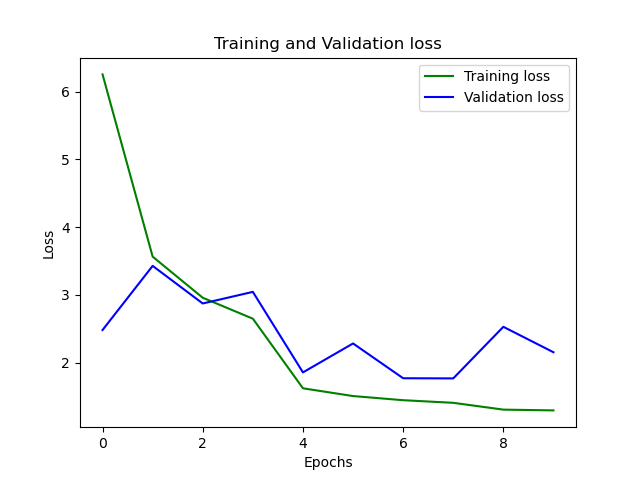
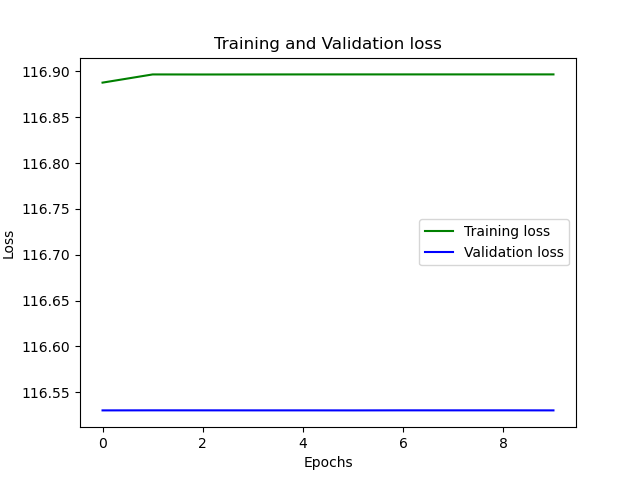
v42, further experiments with point removal

diff --git a/main_fpn.py b/main_fpn.py
@@ -157,6 +157,50 @@ class DDDDepthDiff(nn.Module):
 #     return float(correct)*100 / target.size(0) 
 
 
+class PixelWiseOutlierLoss(nn.Module):
+    def __init__(self):
+        super(PixelWiseOutlierLoss, self).__init__()
+
+    def forward(self, fake, real):
+        if not fake.shape == real.shape:
+            _,_,H,W = real.shape
+            fake = F.upsample(fake, size=(H,W), mode='bilinear')
+        fake2=fake.clone()
+        real2=real.clone()
+        # fake2[fake2<torch.max(fake2)*0.1]=0
+        # real2[real2<torch.max(real2)*0.1]=0
+        # validfake = fake<torch.max(fake)*0.1
+        # validreal = real<torch.max(real)*0.1
+        # validloss = torch.logical_xor(fake2,real2)
+        # real2[real2>0] = 1
+        # fake2[fake2>0] = 1
+        validloss = fake2-real2
+        validloss[validloss<0]=0
+        pwolloss=torch.log(torch.sum(validloss))
+        return pwolloss
+
+class MaskLoss(nn.Module):
+    def __init__(self):
+        super(MaskLoss, self).__init__()
+
+    def forward(self, fake, real):
+        if not fake.shape == real.shape:
+            _,_,H,W = real.shape
+            fake = F.upsample(fake, size=(H,W), mode='bilinear')
+        fake2=fake.clone()
+        real2=real.clone()
+        eps_number = torch.tensor(1e-7).to('cuda')
+        # fake2[fake2<torch.max(fake2)*0.1]=0
+        # real2[real2<torch.max(real2)*0.1]=0
+        # validfake = fake<torch.max(fake)*0.1
+        # validreal = real<torch.max(real)*0.1
+        # validloss = torch.logical_xor(fake2,real2)
+        real2[real2>0] = 1
+        real2[real2==0] = eps_number
+        fake2[fake2==0] = eps_number
+        RMSE_log = torch.sqrt(torch.mean(torch.abs(torch.log(torch.abs(real2))-torch.log(torch.abs(fake2)))**2))
+        loss = RMSE_log*10
+        return loss
 
 def parse_args():
     """
@@ -378,6 +422,8 @@ if __name__ == '__main__':
     # normal_criterion = NormalLoss()
     d_crit=DDDDepthDiff()
     # eval_metric = RMSE_log()
+    pwol = PixelWiseOutlierLoss()
+    maskloss = MaskLoss()
     
     # resume
     if args.resume:
@@ -429,55 +475,33 @@ if __name__ == '__main__':
             img.resize_(data[0].size()).copy_(data[0])
             z.resize_(data[1].size()).copy_(data[1])
             optimizer.zero_grad()
+            # height = img.size()[2]
+            # width =img.size()[3]
+            # subimg1=img[:,:,0:height*2/3,0:width*2/3]
+            # subimg2=img[:,:,0:height*2/3,width/3:width]
+            # subimg3=img[:,:,height/3:height,0:width*2/3]
+            # subimg4=img[:,:,height/3:height,width/3:width]
 
-
-            # imgn=img.clone()
-            # print(torch.max(img))
-            # img2=img.clone()
-            # img2[img2>max_depth] = max_depth     
-            # img2[img2==0] = torch.max(img2)
-            # if torch.max(img2)>max_value:
-            #     max_value=torch.max(img2)
-            # if torch.min(img2)<min_value:
-            #     min_value=torch.min(img2) 
-            #print(torch.min(img2))
-            # img2=img.clone()
-            # img[img<min_depth] = zero_number
-            # img[img>max_depth] = max_depth
-            # imgmask=img.clone()       
-            # imgmask=imgmask[:,0,:,:].unsqueeze(1)     
-            # valid = (imgmask > 0) & (imgmask < max_depth+1)
-            
-            # img3=img3-min_depth
-            # m_depth=torch.max(img)
-            # img=img/max_depth#(max_depth-min_depth)
-            # z=z/max_depth#max_depth
-            # half_number = torch.tensor(0.5).to('cuda')
             z_fake = dfilt(img)
-            # z_fake_max=torch.max(z_fake)
-            # z_fake = torch.where(valid, z_fake, zero_number)
-            
-            # print(torch.max(z_fake))
-            # z_fake=z_fake/torch.max(z_fake)
-            
-            # z_fake=z_fake*10000.
-            # depth_loss = depth_criterion(z_fake, z)
-            # point_loss=point_criterion(z_fake,z)
+            # zf1=dfilt(subimg1)
+            # zf2=dfilt(subimg2)
+            # zf3=dfilt(subimg3)
+            # zf4=dfilt(subimg4)
+            # zf=img.clone()
+            # zf[:,:,0:height/3,0:width/3]=zf1[:,:,0:height/3,0:width/3]
+            # zf[:,:,0:height/3,width*2/3:width]=zf2[:,:,0:height/3,width/3:width*2/3]
+            # zf[:,:,height*2/3:height,0:width/3]=zf3[:,:,height/3:height*2/3,0:width/3]
+            # zf[:,:,height*2/3:height,width*2/3:width]=zf4[:,:,height/3:height*2/3,width/3:width*2/3]
+            # zf[:,:,he]
 
-            # o3d_pcd = o3d.geometry.PointCloud()
-            # input_depth = z_fake.clone() 
-            # input_pcd = d_crit.point_cloud(input_depth[0]).cpu().detach().numpy()
-            # o3d_pcd.points = o3d.utility.Vector3dVector(input_pcd*max_depth)
-            # o3d.io.write_point_cloud(args.output_dir+"/input_cloud"+str(epoch)+".pcd", o3d_pcd)
-            dloss=d_crit(z_fake,z)
-            # print(dloss)
-            # grad_real, grad_fake = imgrad_yx(z), imgrad_yx(z_fake)
-            # grad_loss = grad_criterion(grad_fake, grad_real)     * grad_factor * (epoch>3)
-            # normal_loss = normal_criterion(grad_fake, grad_real) * normal_factor * (epoch>7)
+            # dloss=d_crit(z_fake,z)
+            # loss = 1*dloss
+
+            # pwloss = pwol(z_fake,z)
+            # loss = pwloss
+
+            loss=maskloss(z_fake,z)
             
-            # loss = depth_loss + grad_loss + normal_loss
-            # loss = point_loss
-            loss = 1*dloss
             loss.backward()
             optimizer.step()
             train_loss += loss.item()
@@ -520,25 +544,14 @@ if __name__ == '__main__':
 
                 img.resize_(data[0].size()).copy_(data[0])
                 z.resize_(data[1].size()).copy_(data[1])
-                # img=img.clone()
-                # img[img<min_depth] = zero_number
-                # img[img>max_depth] = max_depth
-                # imgmask=img2.clone()            
-                # valid = (imgmask > 0) & (imgmask < max_depth+1)
                 
-                # img3=img3-min_depth
-                # m_depth=torch.max(img2)
-                # img=img/max_depth#(max_depth-min_depth)
-                # z=z/torch.max(z)#max_depth
-                # valid=valid[:,0,:,:].unsqueeze(1)
                 z_fake = dfilt(img)
-                # z_fake_max=torch.max(z_fake)
-                # z_fake=torch.where(valid,z_fake/z_fake_max,zero_number)
-                dloss=d_crit(z_fake,z)
-                # depth_loss = float(img.size(0)) * rmse(z_fake, z)**2
-                eval_loss += dloss
-                # rmse_accum += float(img.size(0)) * eval_metric(z_fake, z)**2
-                # count += float(img.size(0))
+                
+                # dloss=d_crit(z_fake,z)
+                # pwloss = pwol(z_fake,z)
+                mloss = maskloss(z_fake,z)
+                eval_loss += mloss
+                
                 
             eval_loss = eval_loss/len(eval_dataloader)
             train_loss = train_loss/iters_per_epoch

diff --git a/model_fpn.py b/model_fpn.py
@@ -42,7 +42,7 @@ class DFILT(nn.Module):
         if fixed_feature_weights:
             for p in resnet.parameters():
                 p.requires_grad = False
-        self.layer01=nn.Conv2d(3, 64, kernel_size=(7, 7), stride=(1,1), padding=(3, 3), bias=False)
+        self.layer01=nn.Conv2d(3, 64, kernel_size=(7, 7), stride=(2,2), padding=(3, 3), bias=False)
         self.layer02=nn.BatchNorm2d(64, eps=1e-05, momentum=0.1, affine=True, track_running_stats=True)
         self.layer03=nn.ReLU(inplace=True)
         self.layer04=nn.MaxPool2d(kernel_size=3, stride=2, padding=1, dilation=1, ceil_mode=False)
@@ -123,15 +123,17 @@ class DFILT(nn.Module):
         a1,a2,a3,a4=self.agg1(p5),self.agg2(p4),self.agg3(p3),self.agg4(p2)
         d5, d4, d3, d2 = self.up1(a1), self.up2(a2), self.up3(a3), a4
         _,_,H,W = d2.size()
-        vol = torch.cat( [ F.upsample(d, size=(H*4,W*4), mode='nearest') for d in [d5,d4,d3,d2] ], dim=1 )
+        vol = torch.cat( [ F.upsample(d, size=(H,W), mode='bilinear') for d in [d5,d4,d3,d2] ], dim=1 )
         
         pred1 = self.predict1(vol)
-        # pred2 = F.interpolate(self.predict2(pred1), size=(H*2,W*2), mode='bilinear')
-        pred2 = self.predict2(pred1)
+        pred2 = F.interpolate(self.predict2(pred1), size=(H*4,W*4), mode='bilinear')
+        # pred2 = self.predict2(pred1)
         #return pred2
         # half_number = torch.tensor(0.5).to('cuda')
         # pred3 = x[:,1,:,:]+pred2-half_number
         # valid = x[0][1]!=0.0
         # pred4 = pred2.clone()
         # pred4[0][0] = pred2[0][0] * valid
+        pred2[pred2<3*torch.max(x)/10]=0
+        pred2[pred2>=7*torch.max(x)/10]=1
         return pred2

diff --git a/dataset/nyuv2_dataset.py b/dataset/nyuv2_dataset.py
@@ -22,10 +22,10 @@ class NYUv2Dataset(data.Dataset):
         if train:
             self.rgb_paths = [root+'depth3/train/'+d for d in os.listdir(root+'depth3/train')]
             # Randomly choose 50k images without replacement
-            # self.rgb_paths = np.random.choice(self.rgb_paths, 4000, False)
+            self.rgb_paths = np.random.choice(self.rgb_paths, 4000, False)
         else:
             self.rgb_paths = [root+'depth3/test/'+d for d in os.listdir(root+'depth3/test/')]
-            # self.rgb_paths = np.random.choice(self.rgb_paths, 1000, False)
+            self.rgb_paths = np.random.choice(self.rgb_paths, 1000, False)
         
 
         # self.augmentation = Compose([RandomHorizontalFlip()]) # , RandomCropRotate(10)

diff --git a/eval.py b/eval.py
@@ -33,7 +33,7 @@ def parse_args():
                       default=True, type=bool)
     parser.add_argument('--model_path', dest='model_path',
                       help='path to the model to use',
-                      default='saved_models/dfilt_1_9_v41.pth', type=str)
+                      default='saved_models/dfilt_1_9_v42.pth', type=str)
 
     args = parser.parse_args()
     return args
